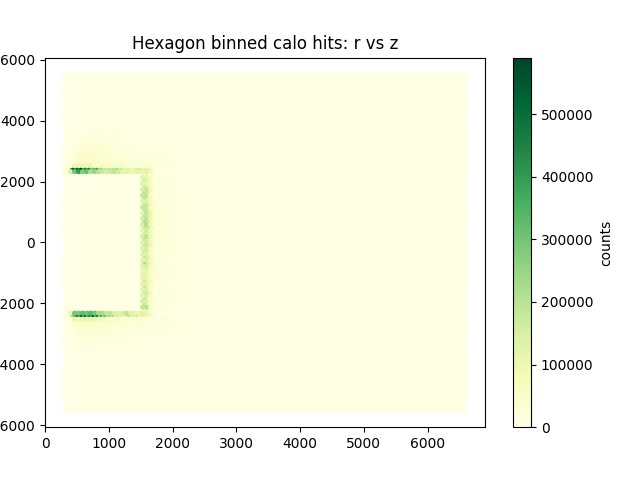
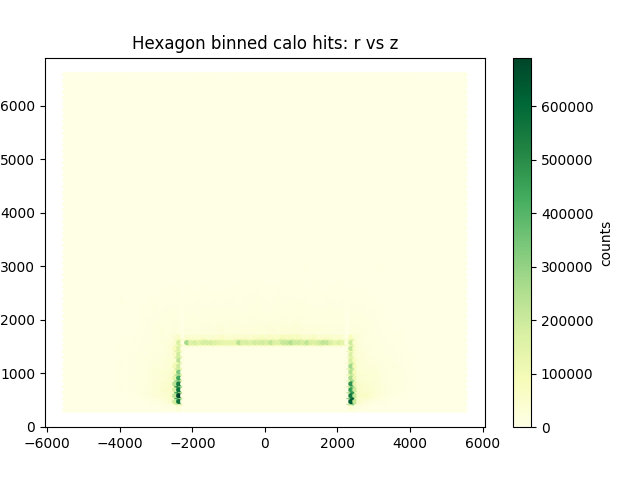
Fixed r-z swap

diff --git a/plot_rz.py b/plot_rz.py
@@ -30,7 +30,7 @@ rHits = np.sqrt(xHits * xHits + yHits * yHits)
 
 fig, ax = plt.subplots(ncols=1)
 fig.subplots_adjust(hspace=0.5, left=0.07, right=0.93)
-hb = ax.hexbin(rHits, zHits, gridsize=100, cmap='YlGn')
+hb = ax.hexbin(zHits, rHits, gridsize=100, cmap='YlGn')
 ax.set_title("Hexagon binned calo hits: r vs z")
 cb = fig.colorbar(hb, ax=ax)
 cb.set_label('counts')
